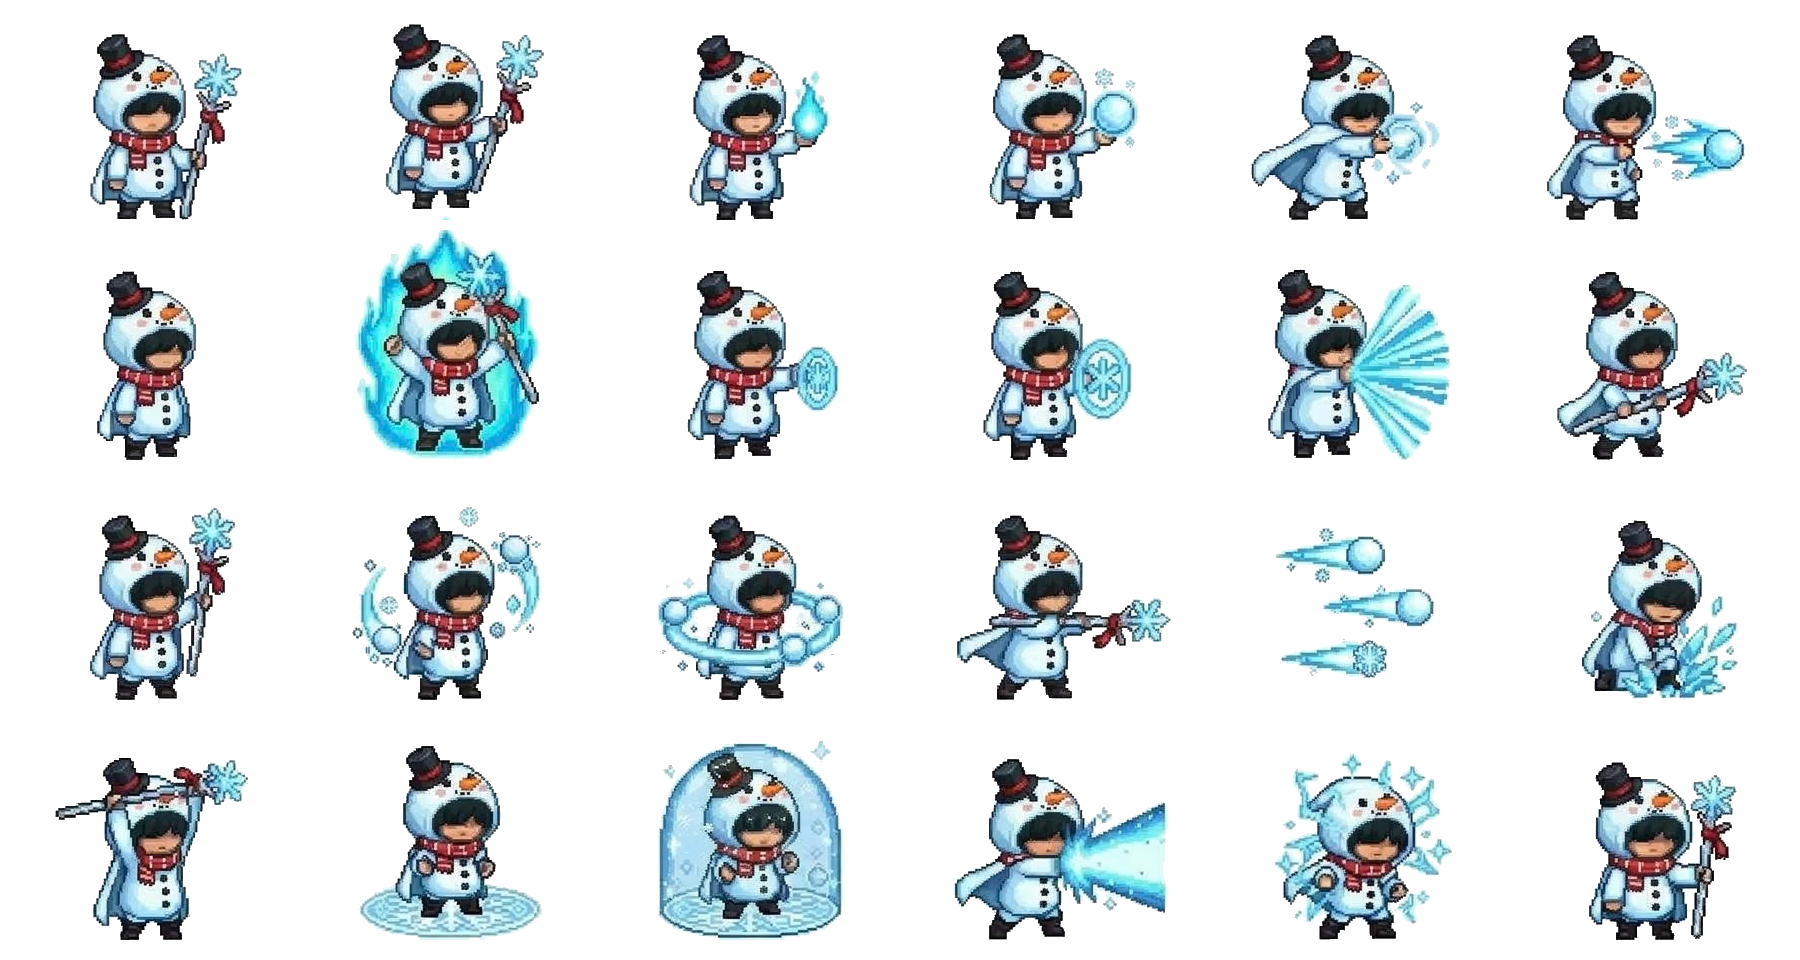
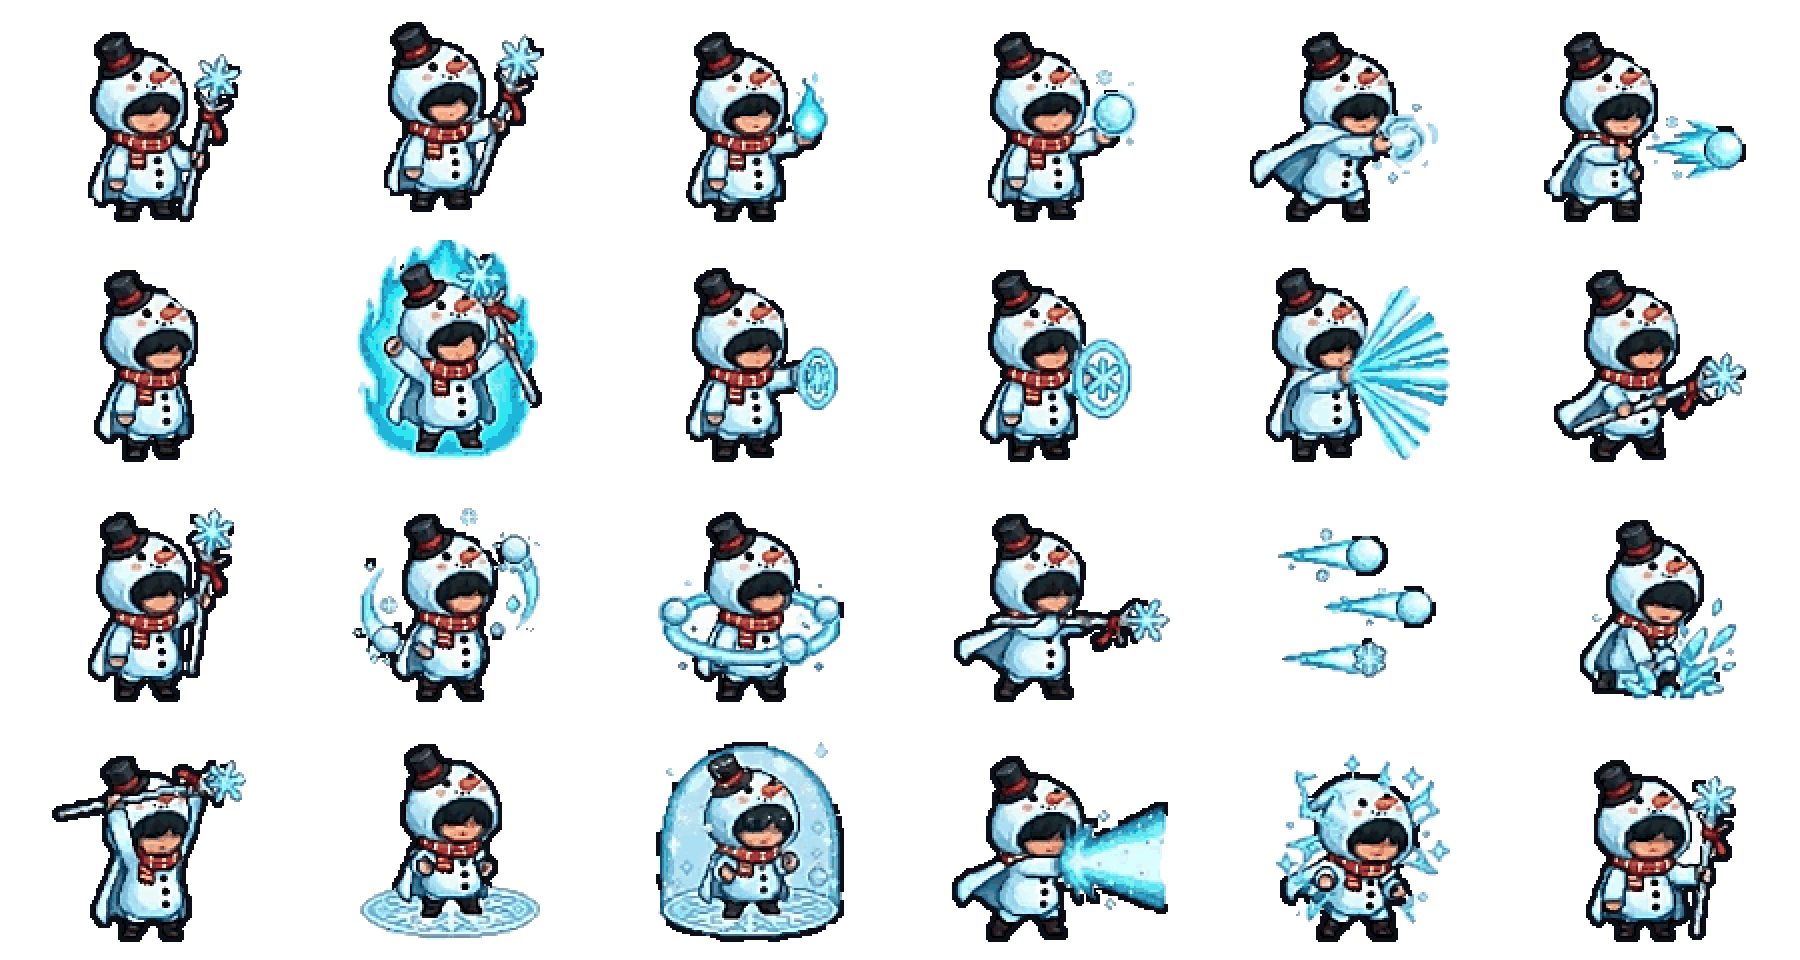
Clean the white matte and strengthen Christmas Deluxe sprite outlines

diff --git a/tools/assets/prepare_noel_outfits.py b/tools/assets/prepare_noel_outfits.py
@@ -1,0 +1,103 @@
+"""Prepare Kael and Aeris's Noel atlases from the four original white-matte sheets.
+
+Usage: python prepare_noel_outfits.py KAEL_WALK KAEL_COMBAT AERIS_WALK AERIS_COMBAT
+Requires Pillow and NumPy. Cell sizes and feet anchors match christmasOutfits.ts.
+"""
+import argparse
+from pathlib import Path
+
+import numpy as np
+from PIL import Image, ImageDraw, ImageFilter, ImageEnhance
+
+ASSETS = Path(__file__).resolve().parents[2] / "public/assets/christmas-outfits"
+INK = (12, 15, 23)
+CUTS = {
+    "reindeer": [
+        [0, 198, 401, 618, 815, 1012, 1200], [0, 200, 404, 601, 808, 1005, 1200],
+        [0, 205, 401, 598, 810, 1007, 1200], [0, 200, 402, 609, 811, 1041, 1200],
+    ],
+    "snowman": [
+        [0, 199, 400, 600, 798, 996, 1200], [0, 202, 400, 600, 802, 1004, 1200],
+        [0, 199, 402, 601, 821, 1007, 1200], [0, 201, 402, 602, 820, 1008, 1200],
+    ],
+}
+
+
+def pixel_frame(source, combat):
+    # One art pixel is two source pixels. Denoise the JPEG speckle before sampling.
+    small = source.filter(ImageFilter.MedianFilter(3)).resize(
+        (source.width // 2, source.height // 2), Image.Resampling.BOX)
+    rgb = np.asarray(small).astype(np.int16)
+    low, high = rgb.min(axis=2), rgb.max(axis=2)
+    matte = (low > 210) & (high - low < 32)
+    flood = Image.fromarray(np.uint8(matte) * 255).copy()
+    # All cells have clear corners. Flooding from the outside retains the whites of the coat.
+    ImageDraw.floodfill(flood, (0, 0), 128)
+    solid = np.asarray(flood) != 128
+    mask = Image.fromarray(np.uint8(solid) * 255).filter(ImageFilter.MedianFilter(3))
+    solid = np.array(mask) > 0
+    # Darken only the character silhouette. Detached icy bolts, glows and gold sparks
+    # retain their own hues. The knight's steel and Aeris's snow use their authored shading.
+    dark = solid & (high < 145)
+    near_ink = np.array(Image.fromarray(np.uint8(dark)*255).filter(ImageFilter.MaxFilter(5))) > 0
+    eroded = np.array(mask.filter(ImageFilter.MinFilter(3))) > 0
+    expanded = np.array(mask.filter(ImageFilter.MaxFilter(3))) > 0
+    edge = expanded & ~eroded
+    if combat:
+        edge &= near_ink
+        # A white matte around an airborne effect reads as a white box against dark scenery.
+        pale_rim = solid & ~eroded & ~near_ink & (low > 185) & (high-low < 24)
+        solid &= ~pale_rim
+    color = small.filter(ImageFilter.UnsharpMask(radius=1.2, percent=100, threshold=5))
+    color = ImageEnhance.Color(color).enhance(1.06)
+    pixels = np.array(color)
+    pixels[edge] = INK
+    pixels[~(solid | edge)] = 0
+    return Image.fromarray(np.dstack((pixels, np.uint8(solid | edge)*255)))
+
+
+def finish(cells, columns):
+    w,h = cells[0].size
+    atlas = Image.new("RGBA", (columns*w, len(cells)//columns*h))
+    for i,frame in enumerate(cells):
+        atlas.paste(frame, (i%columns*w, i//columns*h))
+    # Share shades between poses so the scarf, hat and face stay stable through animation.
+    rgb = atlas.convert("RGB")
+    palette = rgb.quantize(colors=112, method=Image.Quantize.MEDIANCUT)
+    colored = rgb.quantize(palette=palette, dither=Image.Dither.NONE).convert("RGBA")
+    colored.putalpha(atlas.getchannel("A"))
+    return colored.resize((atlas.width*2, atlas.height*2), Image.Resampling.NEAREST)
+
+
+def prepare(name, walk_path, combat_path):
+    walk = Image.open(walk_path).convert("RGB")
+    combat = Image.open(combat_path).convert("RGB")
+    if walk.size != (1600,800) or combat.size != (1200,896):
+        raise ValueError(f"Unexpected source dimensions for {name}")
+    walking = [pixel_frame(walk.crop((x,y,x+200,y+200)),False)
+               for y in range(0,800,200) for x in range(0,1600,200)]
+    finish(walking,8).save(ASSETS/f"{name}-walk.png", optimize=True)
+    rows = [0,216,450,674,896] if name=="snowman" else [0,215,450,675,896]
+    poses = []
+    for row, cuts in enumerate(CUTS[name]):
+        for col, (left,right) in enumerate(zip(cuts,cuts[1:])):
+            tile = combat.crop((left,rows[row],right,rows[row+1]))
+            # Determine the ground from visible paint before adding an outline.
+            values = np.asarray(tile).astype(np.int16)
+            paint = (values.min(2)<192) | (values.max(2)-values.min(2)>34)
+            feet = int(np.nonzero(paint)[0].max()+1)
+            if name=="snowman" and (row,col)==(2,4):
+                feet = 202  # airborne bolts have no character feet
+            cell = Image.new("RGB",(300,240),"white")
+            cell.paste(tile,(150-(100+col*200-left),220-feet))
+            poses.append(pixel_frame(cell,True))
+    finish(poses,6).save(ASSETS/f"{name}-combat.png", optimize=True)
+
+
+if __name__ == "__main__":
+    args=argparse.ArgumentParser(description=__doc__)
+    for name in ["kael_walk","kael_combat","aeris_walk","aeris_combat"]:
+        args.add_argument(name,type=Path)
+    paths=args.parse_args()
+    prepare("reindeer",paths.kael_walk,paths.kael_combat)
+    prepare("snowman",paths.aeris_walk,paths.aeris_combat)
